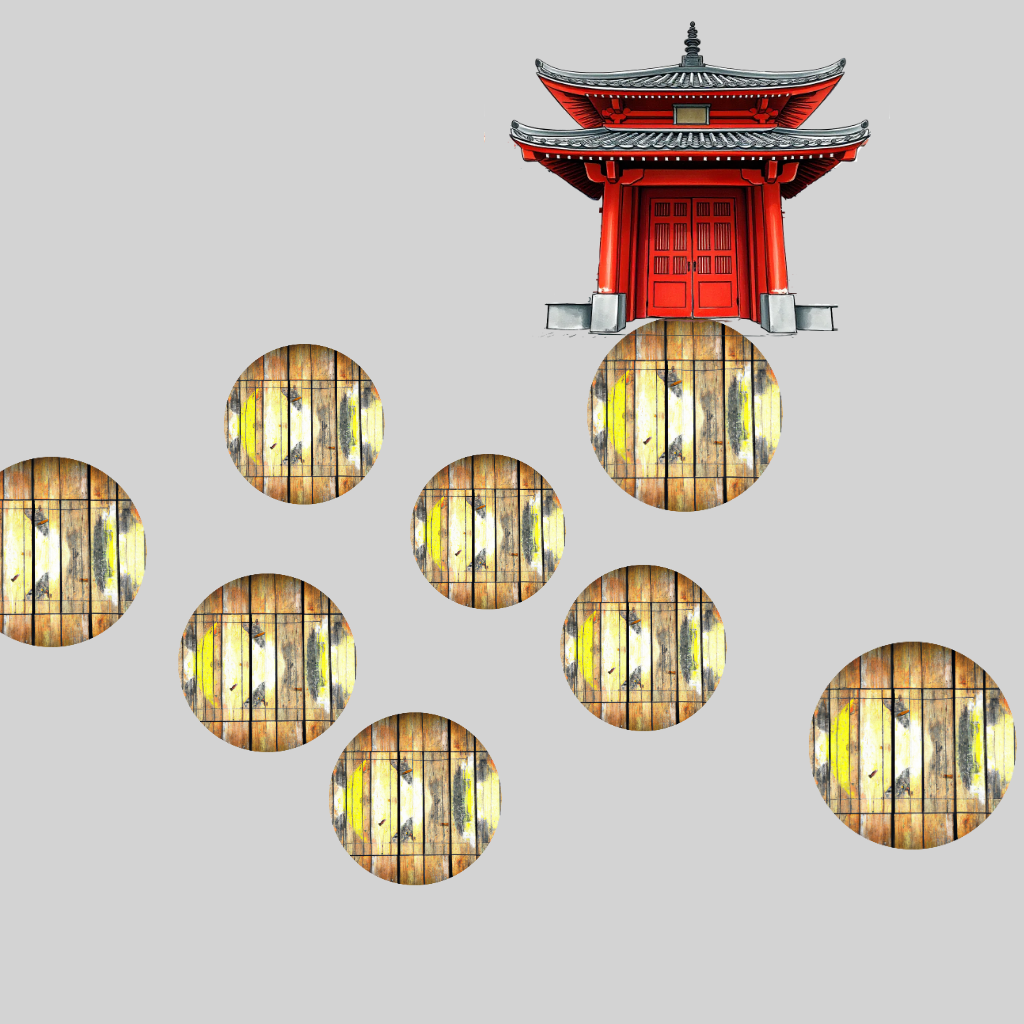
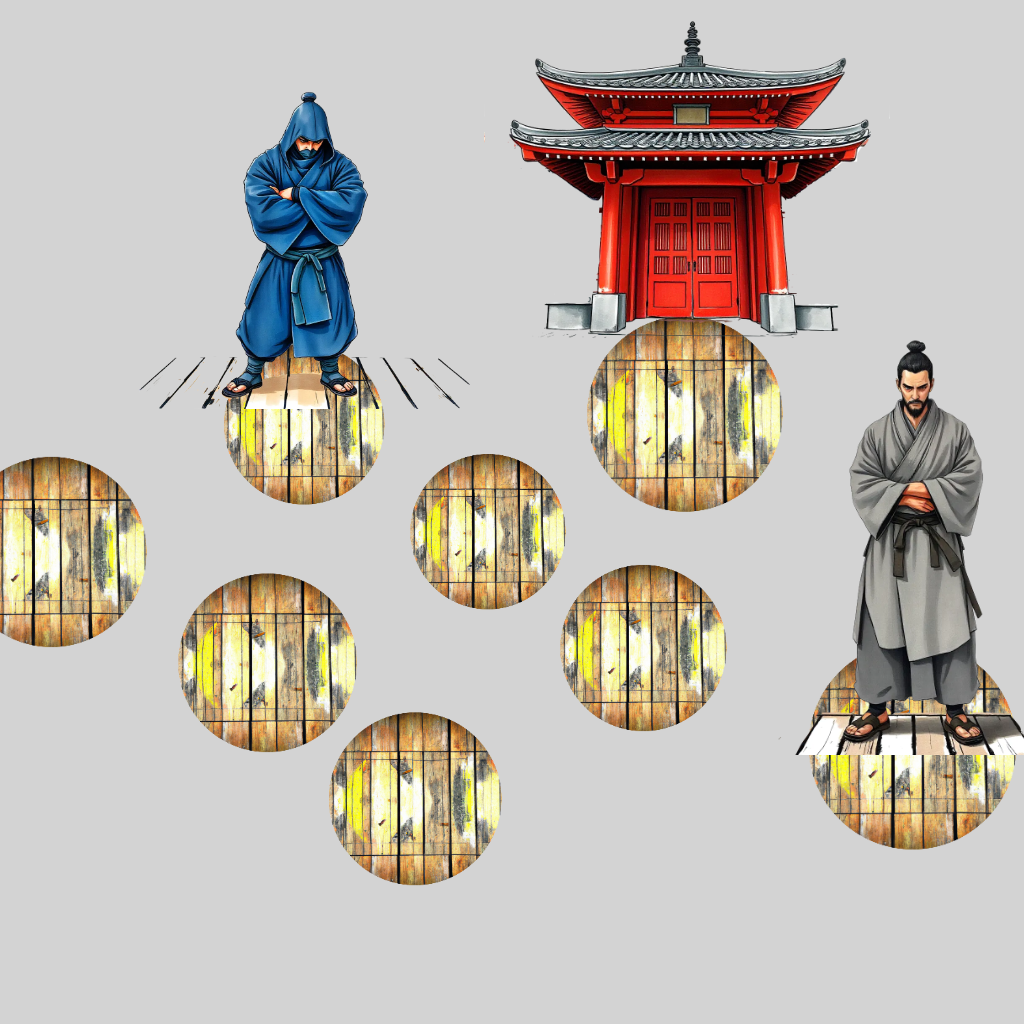
Got a pretty good level image

Changed region(s): [[0.7812, 0.3125, 1.0, 0.75], [0.1875, 0.0938, 0.4062, 0.4062]]

diff --git a/docs/game/game.js b/docs/game/game.js
@@ -271,7 +271,7 @@ var gameSystem_prototype = {
         }
         if (store.art.is_unit) {
             if (this.drawMode != "main") {
-                return;
+                //return;
             }
         }
         var img = null;
